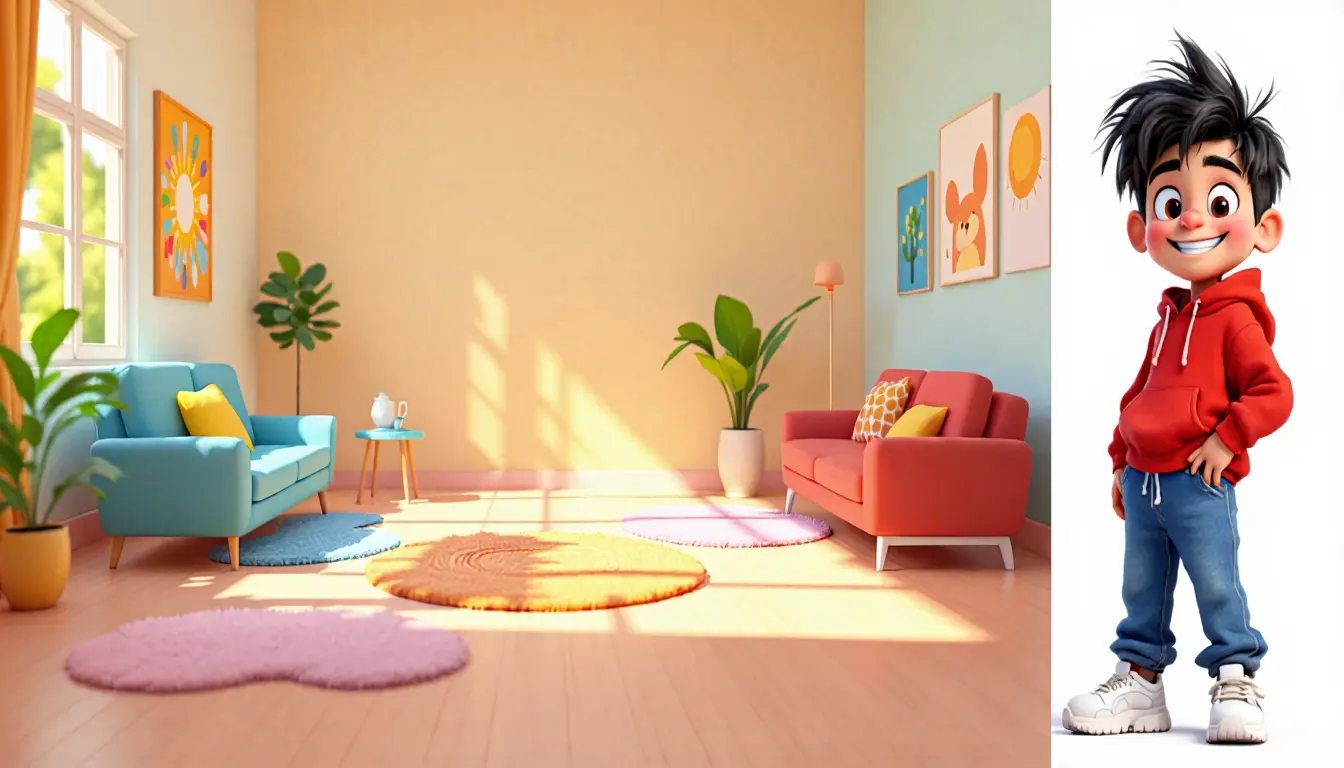
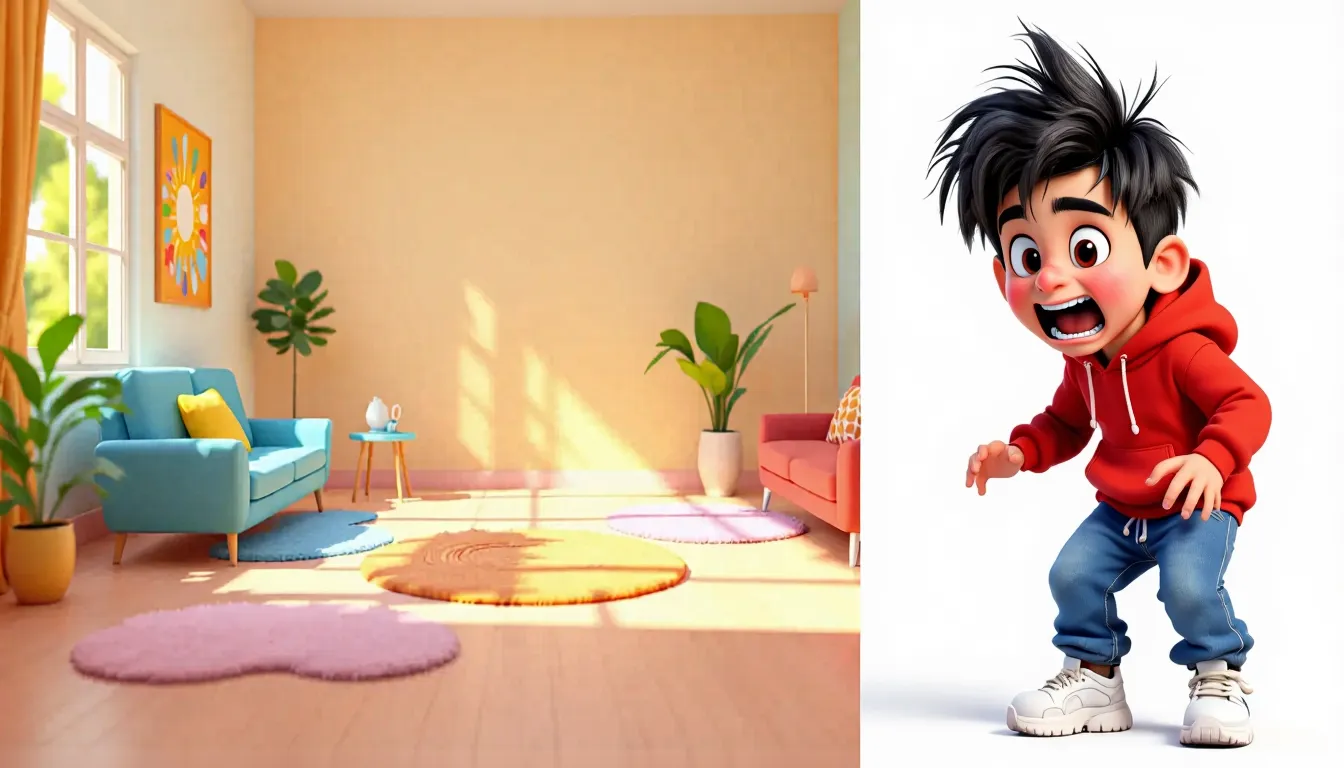
more images, update

diff --git a/README.md b/README.md
@@ -1,11 +1,13 @@
-# Flux Omini Kontext LoRA Training
+# Flux Omini Kontext framework for multi-image reference based training and generation
 
 [![Python](https://img.shields.io/badge/Python-3.8+-blue.svg)](https://python.org)
 [![PyTorch](https://img.shields.io/badge/PyTorch-2.0+-red.svg)](https://pytorch.org)
 [![Lightning](https://img.shields.io/badge/Lightning-2.0+-yellow.svg)](https://lightning.ai)
 [![License](https://img.shields.io/badge/License-Apache%202.0-green.svg)](LICENSE)
 
-A comprehensive Lightning-based training framework for fine-tuning the Flux Omini Kontext pipeline using LoRA (Low-Rank Adaptation). This project enables efficient training of multi-image diffusion models that can generate images from input images, reference images, and text prompts.
+OminiKontext is a framework built around Flux.1-Kontext-dev model. We do not alter the model architecture, but rather we play around with 3D RoPE embeddings to enable reference based edits on a given image. 
+
+The approach is heavily inspired from [OminiControl](https://github.com/Yuanshi9815/OminiControl) project, that uses the same RoPE embeddings trick to achieve reference based image generation using Flux.1 dev model. However, Flux.1 dev uses 2D RoPE embeddings, where as Kontext uses 3D RoPE embeddings. 
 
 
 ## 🎨 Generated Samples
@@ -24,15 +26,16 @@ More comming soon!
 
 ### Model Comparison
 
-The following table compares the performance of our trained Omini Kontext model against the vanilla FLUX.1-Kontext-dev model:
+The following table compares the performance of Omini Kontext model with a character insertion LoRA, against the vanilla FLUX.1-Kontext-dev model. For the comparision, we used `Add character to the image. The character is scared.` as the prompt for all the images.
 
 | Scene | Reference | Vanilla | Omini |
 |-------|-----------|---------|-------|
-| ![Living Room](assets/comparison/living_room.webp) | ![Boy](assets/comparison/boy.webp) | ![Living Room Boy Vanilla](assets/comparison/results/living_room_boy_vanilla.webp) | ![Living Room Boy Omini](assets/comparison/results/living_room_boy_omini.webp) |
-| ![Living Room](assets/comparison/living_room.webp) | ![Dog](assets/comparison/dog.webp) | ![Living Room Dog Vanilla](assets/comparison/results/living_room_dog_vanilla.webp) | ![Living Room Dog Omini](assets/comparison/results/living_room_dog_omini.webp) |
-| ![Forest](assets/comparison/forest.webp) | ![Boy](assets/comparison/boy.webp) | ![Forest Boy Vanilla](assets/comparison/results/forest_boy_vanilla.webp) | ![Forest Boy Omini](assets/comparison/results/forest_boy_omini.webp) |
-| ![Forest](assets/comparison/forest.webp) | ![Girl](assets/comparison/girl.webp) | ![Forest Girl Vanilla](assets/comparison/results/forest_girl_vanilla.webp) | ![Forest Girl Omini](assets/comparison/results/forest_girl_omini.webp) |
-| ![Forest](assets/comparison/forest.webp) | ![Dog](assets/comparison/dog.webp) | ![Forest Dog Vanilla](assets/comparison/results/forest_dog_vanilla.webp) | ![Forest Dog Omini](assets/comparison/results/forest_dog_omini.webp) |
+| ![Living Room](assets/comparison/living_room.webp) | ![Boy](assets/comparison/boy.webp) | ![Living Room Boy Vanilla](assets/comparison/results/living_room_boy_vanilla.webp) | ![Living Room Boy Omini](assets/comparison/results/living_room_boy_omini_with_lora.webp) |
+| ![Living Room](assets/comparison/living_room.webp) | ![Dog](assets/comparison/dog.webp) | ![Living Room Dog Vanilla](assets/comparison/results/living_room_dog_vanilla.webp) | ![Living Room Dog Omini](assets/comparison/results/living_room_dog_omini_with_lora.webp) |
+| ![Living Room](assets/comparison/living_room.webp) | ![Girl](assets/comparison/girl.webp) | ![Living Room Girl Vanilla](assets/comparison/results/living_room_girl_vanilla.webp) | ![Living Room Girl Omini](assets/comparison/results/living_room_girl_omini_with_lora.webp) |
+| ![Forest](assets/comparison/forest.webp) | ![Boy](assets/comparison/boy.webp) | ![Forest Boy Vanilla](assets/comparison/results/forest_boy_vanilla.webp) | ![Forest Boy Omini](assets/comparison/results/forest_boy_omini_with_lora.webp) |
+| ![Forest](assets/comparison/forest.webp) | ![Girl](assets/comparison/girl.webp) | ![Forest Girl Vanilla](assets/comparison/results/forest_girl_vanilla.webp) | ![Forest Girl Omini](assets/comparison/results/forest_girl_omini_with_lora.webp) |
+| ![Forest](assets/comparison/forest.webp) | ![Dog](assets/comparison/dog.webp) | ![Forest Dog Vanilla](assets/comparison/results/forest_dog_vanilla.webp) | ![Forest Dog Omini](assets/comparison/results/forest_dog_omini_with_lora.webp) |
 
 
 ## 📋 To-do
